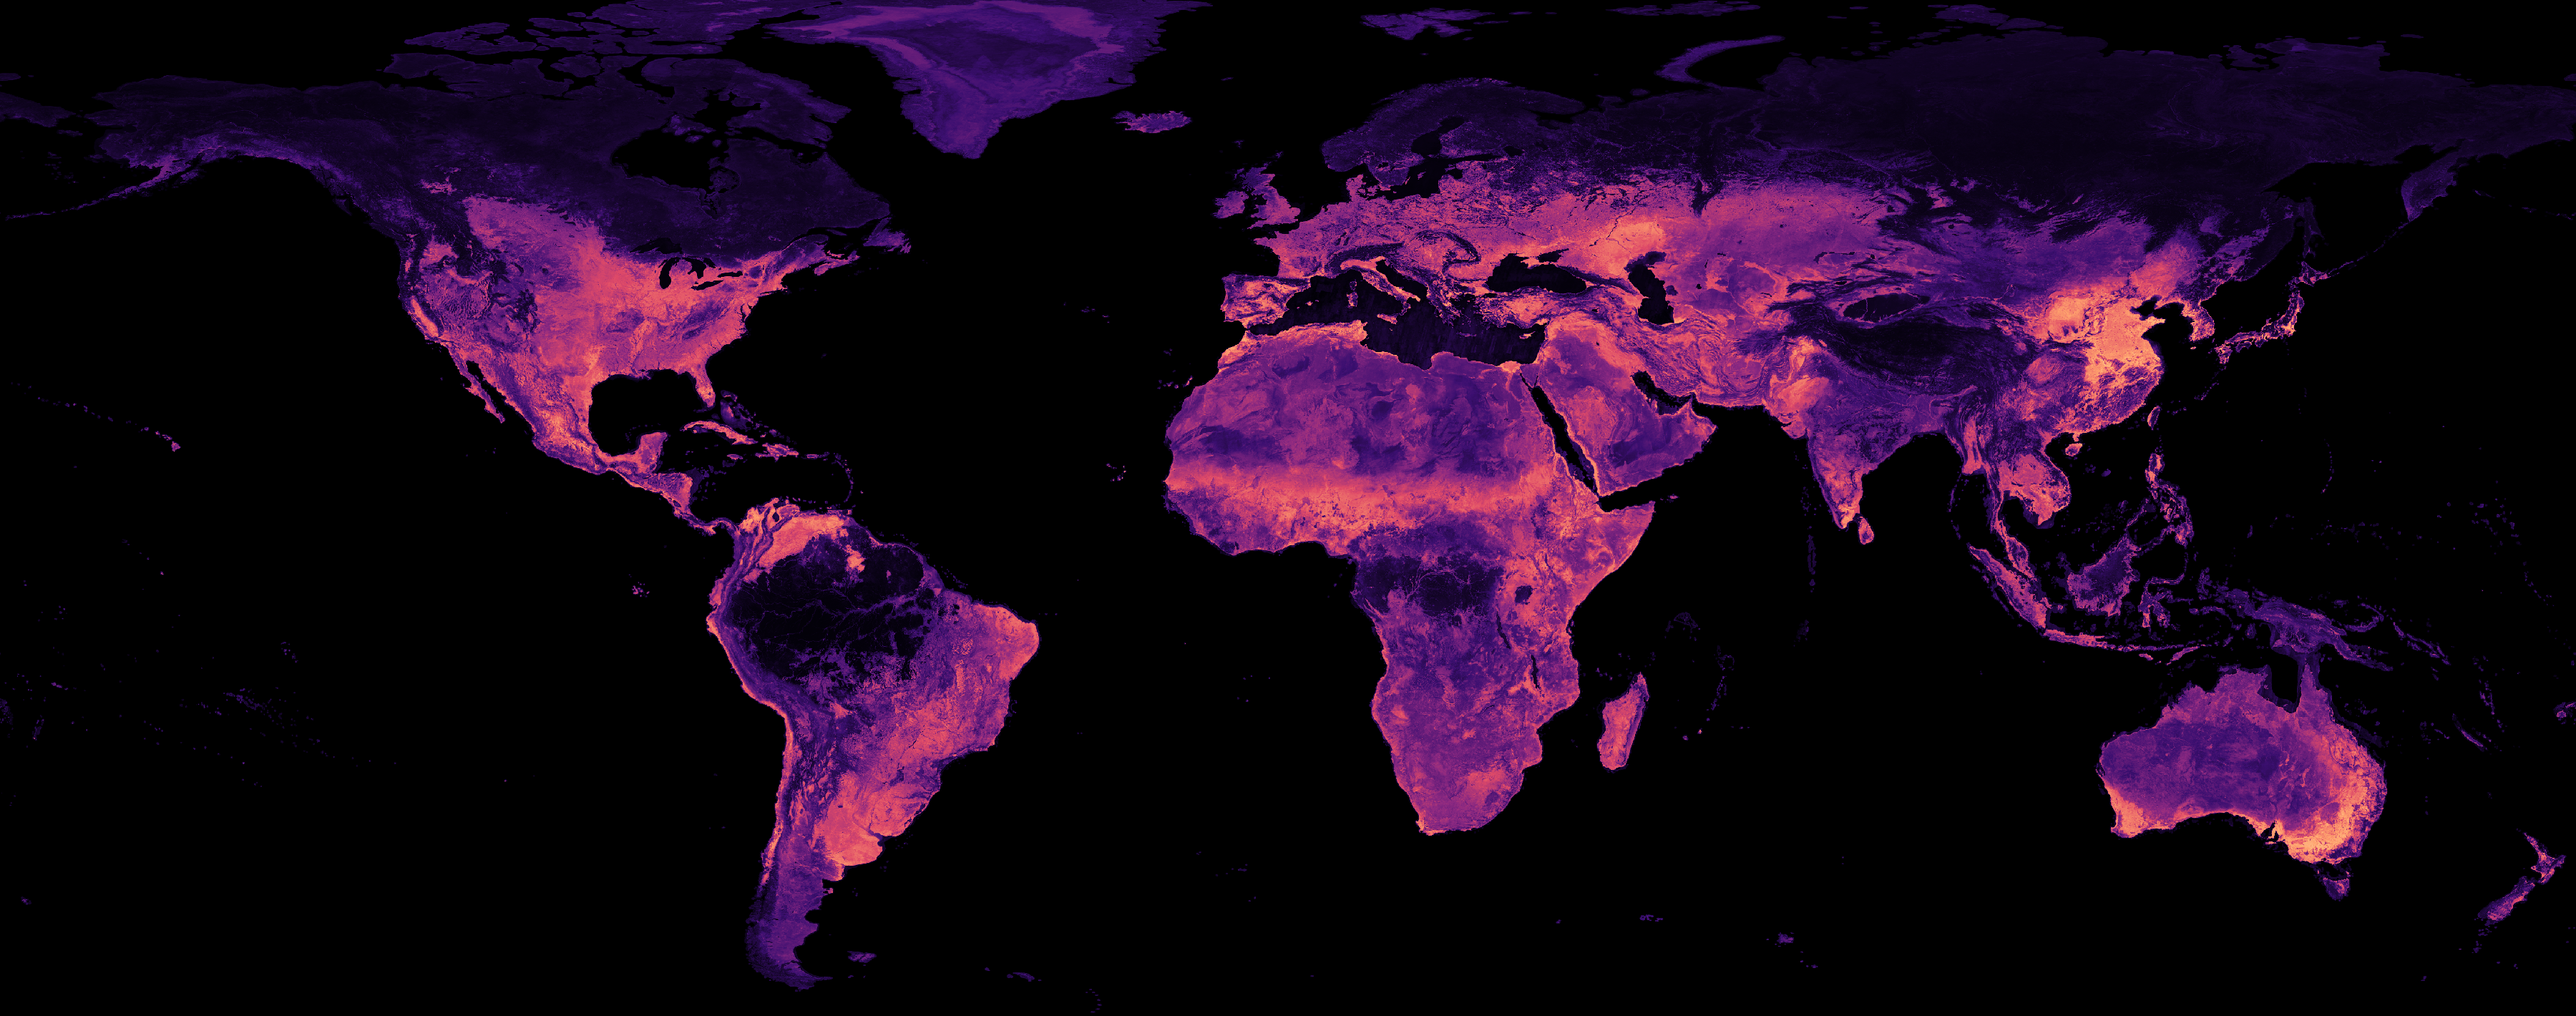
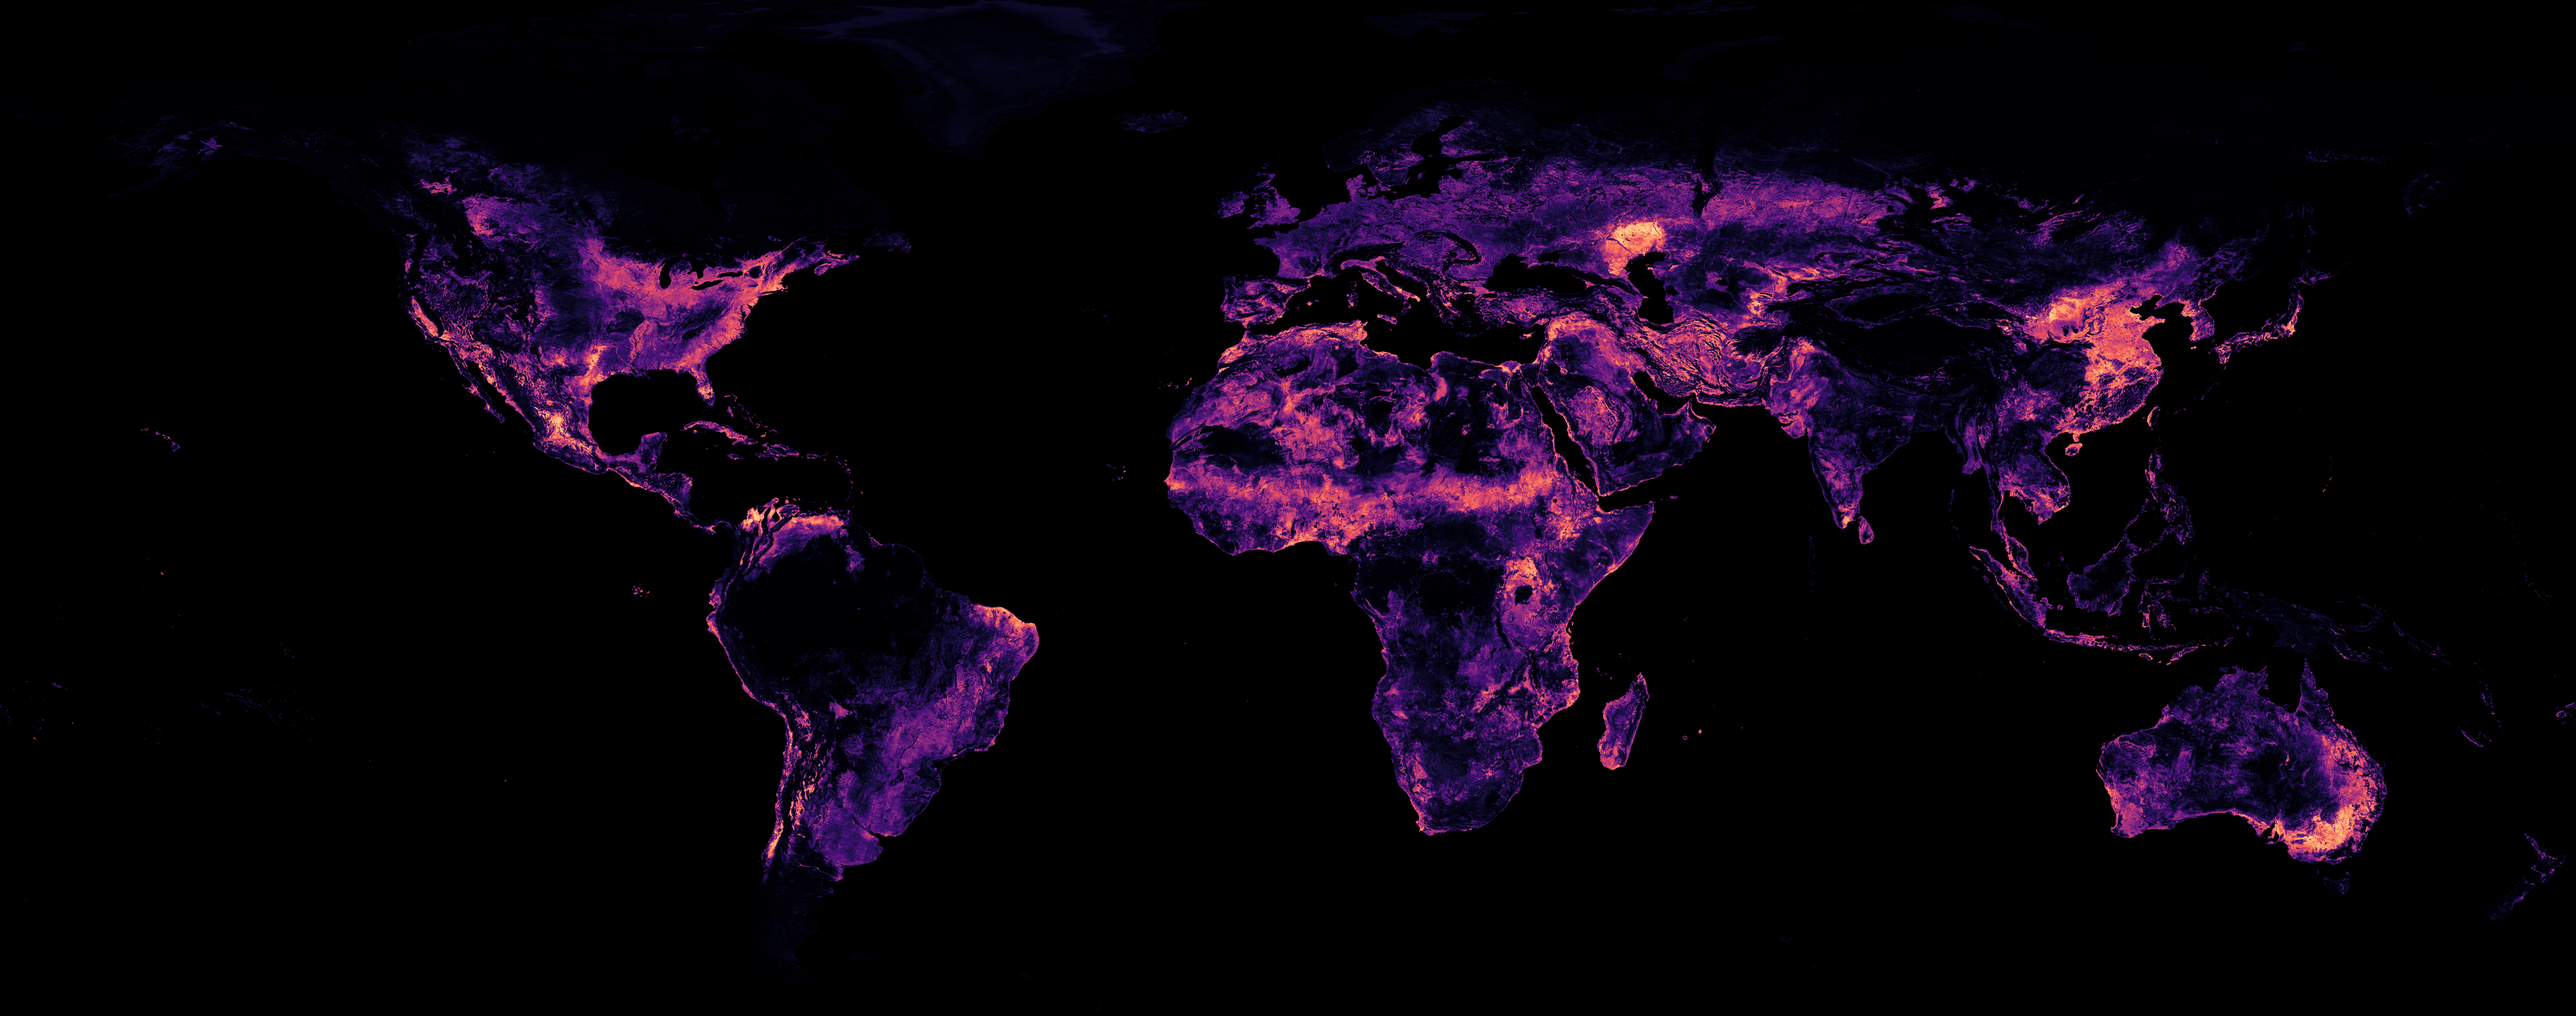
Final v1.0 dataset: preview map, counts, get_dataset metadata refresh
- README map regenerated from the final release (ensemble, land mask v2):
  mean score per 0.1 deg cell, linear scale.
- Final counts (28,533 files, 851 GB) in README, dataset and methods docs;
  existing solar scores high (measured); release-model validation figures
  in the model card.
- get_dataset: a local dataset copy is read in place; a remote one is cached
  per source, and --refresh-index re-downloads the tile index and the
  percentile tables together (previously the tables were never refreshed).

diff --git a/scripts/get_dataset.py b/scripts/get_dataset.py
@@ -1,5 +1,5 @@
 """Get part of the released global dataset (solar_suitability v1.0, AEF 2025): a country or any area, without
-downloading the whole ~850 GB archive.
+downloading the whole 851 GB archive.
 
     python scripts/get_dataset.py --country Kenya                     # raw scores, clipped to the country
     python scripts/get_dataset.py --country KEN --percentile          # + within-country percentile view
@@ -50,26 +50,30 @@ def gdal_path(root, rel):
     return ("/vsicurl/" + root.rstrip("/") + "/" + rel) if is_url(root) else os.path.join(root, rel)
 
 
+def metadata(root, rel, refresh=False):
+    """Local path of a dataset metadata file (index, lookup tables). A local root is read in place; a remote one is
+    cached per root, and --refresh-index re-downloads all cached files together (after a dataset update)."""
+    from solarsiting.aef import cache_dir
+    if not is_url(root):
+        return os.path.join(root, rel)
+    key = "".join(ch if ch.isalnum() else "_" for ch in root)[-80:]
+    p = os.path.join(cache_dir(), f"dataset_{key}", rel)
+    if refresh or not os.path.exists(p):
+        print(f"downloading {rel} (once) ...", flush=True)
+        fetch_to(root, rel, p)
+    return p
+
+
 def load_index(root, refresh=False):
     import geopandas as gpd
-    from solarsiting.aef import cache_dir
-    key = "".join(ch if ch.isalnum() else "_" for ch in root)[-80:]
-    p = os.path.join(cache_dir(), f"dataset_index_{key}.parquet")
-    if refresh or not os.path.exists(p):
-        print("downloading the dataset tile index (once) ...", flush=True)
-        fetch_to(root, "index/tiles.parquet", p)
-    return gpd.read_parquet(p)
+    return gpd.read_parquet(metadata(root, "index/tiles.parquet", refresh))
 
 
-def lut(root, iso3=None):
+def lut(root, iso3=None, refresh=False):
     """code (0-250) -> percentile, from the dataset's lookup tables (within-country if iso3 has a table)."""
     import pandas as pd
-    from solarsiting.aef import cache_dir
     name = "percentiles_by_country.csv" if iso3 else "percentiles_global.csv"
-    p = os.path.join(cache_dir(), "dataset_" + name)
-    if not os.path.exists(p):
-        fetch_to(root, f"lookup/{name}", p)
-    d = pd.read_csv(p)
+    d = pd.read_csv(metadata(root, f"lookup/{name}", refresh))
     if iso3:
         d = d[d.iso3 == iso3]
         if d.empty:
@@ -122,7 +126,8 @@ def main():
     ap.add_argument("--out", help="output folder (default: outputs/dataset_<region>)")
     ap.add_argument("--root", default=os.environ.get("SOLARSITING_DATASET", DEFAULT_ROOT),
                     help="dataset root: the CEDA URL (default), a mirror URL, or a local folder")
-    ap.add_argument("--refresh-index", action="store_true")
+    ap.add_argument("--refresh-index", action="store_true",
+                    help="re-download the cached tile index and percentile tables (after a dataset update)")
     a = ap.parse_args()
     if "PLACEHOLDER" in a.root:
         sys.exit("The dataset's CEDA link is not public yet; it will be set here and in the README at release.\n"
@@ -168,9 +173,10 @@ def main():
               f" | {(time.time() - t0) / 60:.1f} min")
     if not files:
         sys.exit("no released pixels inside this region (all sea, or outside the land mask)")
-    table, kind = (lut(a.root, iso3) if (a.percentile and iso3) else (lut(a.root) if a.percentile else (None, None)))
+    rf = a.refresh_index
+    table, kind = (lut(a.root, iso3, rf) if (a.percentile and iso3) else (lut(a.root, refresh=rf) if a.percentile else (None, None)))
     if a.percentile and table is None:
-        table, kind = lut(a.root); print(f"  no within-country table for {iso3}; using the global percentiles")
+        table, kind = lut(a.root, refresh=rf); print(f"  no within-country table for {iso3}; using the global percentiles")
     by_zone = {}
     for f in files:
         by_zone.setdefault(os.path.basename(os.path.dirname(f)), []).append(f)

diff --git a/docs/dataset.md b/docs/dataset.md
@@ -19,6 +19,7 @@ into a narrow band (paper, Appendix E). Within-country **percentiles** (below) a
 | | |
 |---|---|
 | Format | Cloud-Optimised GeoTIFF (COG), one file per AlphaEarth tile (~82 km x 82 km) |
+| Size | 28,533 files, 851 GB; 1.35 x 10^12 valid pixels (~135 million km²), 250 countries and territories, 114 UTM zones |
 | Grid | native UTM (EPSG:326zz / 327zz), 10 m, north-up |
 | Band | 1 band, `suitability`, **uint8** |
 | Encoding | value = round(P x 250); **P = value x 0.004** (scale 0.004, offset 0, stored in each file); **255 = no data** |
@@ -47,7 +48,7 @@ solar_suitability_v1.0/
              global_<zone>.vrt (+ _pct)     all tiles of a UTM zone, with global percentiles
   stac/      catalog.json + collection + one item per tile (STAC 1.0)
   model/     solar_suitability_model_v1.0/  the model that produced the map (see model_card.md)
-  docs/      QA_REPORT.md  inventory.md  quicklook_tiles.png
+  docs/      QA_REPORT.md  inventory.md  quicklook_tiles.png  preview_global_suitability.png
 ```
 
 File names carry the AlphaEarth tile id, so every file traces to its source embedding tile. There are no
@@ -66,7 +67,7 @@ too few samples for a stable table (73 small territories) use the global table (
 - **Part of it:** `python scripts/get_dataset.py --country <name|ISO3> [--percentile]` (or `--bbox`,
   `--region-file`; `--whole-tiles` for unclipped files). Reads only what it needs over HTTPS.
 - **A country's files directly:** `lookup/<ISO3>.txt` lists them; prepend the archive URL and fetch with `wget -i`.
-- **Everything:** the archive is ~850 GB; mirror it with the tools CEDA documents.
+- **Everything:** the archive is 851 GB; mirror it with the tools CEDA documents.
 - **Open in GIS:** any `.tif` or `mosaics/*.vrt` opens in QGIS/ArcGIS; in Python, `rasterio.open(path)`; the
   scale is in the file, so `read(1, masked=True) * 0.004` gives P(solar).
 
@@ -84,7 +85,8 @@ too few samples for a stable table (73 small territories) use the global table (
   under-scored even if suitable. Read alongside resource, grid and policy information.
 - Pixel scores: does not test whether enough contiguous land exists for a plant of a given size; discrimination is
   weaker for the largest (>100 MW) farms (paper, Appendix F).
-- One embedding year (2025): land that already hosts solar in 2025 scores high (it looks like solar land).
+- One embedding year (2025): land that already hosts solar in 2025 scores high (it looks like solar land; sites
+  around Athens built 2017-2022 sit at a median 98th percentile of the area's land). Mask known installations to see only new land.
 - National score levels differ (weak-country effect, Appendix E): compare countries on percentiles.
 - **Border tiles in the archive's country mosaics:** `mosaics/<ISO3>_<zone>.vrt` include whole tiles, so pixels of a
   neighbouring country inside a border tile also appear (and, in `_pct.vrt`, get this country's percentiles).

diff --git a/docs/model_card.md b/docs/model_card.md
@@ -33,6 +33,11 @@
 | Leak-proof temporal (imagery ≤ 2021, 2024 installs) | mean ROC-AUC 0.90 |
 | vs published MCDA (16 configurations, 13 countries) | +0.06 to +0.30 ROC-AUC in every country |
 
+The released (all-data) model itself: ROC-AUC 0.922 on validation sites outside every chip it was trained on
+(13 countries, n-weighted; split model 0.907), 0.894 on independent TZ-SAM sites (0.891), leave-one-country-out mean
+0.81 (0.81). On bundled inventory sites inside its training chips it scores higher, which measures fit, not
+forward skill ([`docs/reproduce.md`](reproduce.md#forward-validation-predictpy--validatepy)).
+
 Released (all-data) ensemble vs the all-data random forest alone (paired bootstrap): TZ-SAM +0.010 [+0.009, +0.011],
 leak-free country +0.009 [+0.007, +0.010], leave-one-country-out +0.012 [+0.007, +0.017]; temporal −0.002 [−0.004, 0.000].
 
@@ -48,6 +53,7 @@ resource, grid, environmental and social layers; studying siting patterns across
 - Skill varies by country; weaker for the largest (> 100 MW) farms; transfer to countries absent from training is
   weaker (leave-one-country-out).
 - Pixel-level: does not check for contiguous area, ownership, grid capacity, permitting or protected status.
+- Land already covered by solar scores high; scores rank land and are not calibrated probabilities of development.
 - Inherits AlphaEarth's characteristics (effective detail can be coarser than 10 m in places).
 - **Not for permitting or investment decisions without local data and assessment.**
 

diff --git a/docs/methods.md b/docs/methods.md
@@ -45,7 +45,7 @@ best on every held-out test. The released model is the same recipe refit on **al
    `scripts/predict.py` runs the identical computation on any region.
 2. **Land mask:** AlphaEarth also covers near-shore sea. Pixels more than 500 m from land were set to no data, with
    land = OpenStreetMap land polygons ∪ ESA WorldCover 2021 (all classes except permanent water). Kept pixels are
-   byte-identical to the model output; tiles left empty (open sea) were dropped.
+   byte-identical to the model output; tiles left empty (open sea, 2,506) were dropped, leaving 28,533 files.
 3. **Index and catalogue:** a tile index (GeoParquet / GeoPackage / CSV) with footprints, checksums and Natural
    Earth country assignment; per-country file lists and virtual mosaics; a STAC catalogue.
 4. **Percentiles:** global and within-country lookup tables from ~49 M pixels sampled uniformly over released land,

diff --git a/README.md b/README.md
@@ -12,7 +12,7 @@ resembles land that later became a solar farm, two years before construction.
 
 ![Global solar suitability](figures/global_suitability_map.png)
 
-*Global suitability (AEF 2025); brighter = more suitable. Preview of the 10 m dataset.*
+*Mean suitability score per 0.1° cell (AEF 2025, linear scale); brighter = more suitable. Preview of the 10 m dataset.*
 
 **What you can do with this repository**
 
@@ -126,7 +126,7 @@ The code measures both of its threading strategies on first use and keeps the fa
 
 ## Use the released dataset
 
-The global map for **AEF 2025** (solar_suitability v1.0, ~850 GB, 28,000+ tiles, native UTM 10 m) is archived at CEDA
+The global map for **AEF 2025** (solar_suitability v1.0, 851 GB, 28,533 tiles, native UTM 10 m) is archived at CEDA
 (**DOI coming soon**). You do not need to download all of it:
 
 ```bash

diff --git a/CHANGELOG.md b/CHANGELOG.md
@@ -15,6 +15,8 @@ Public release accompanying the camera-ready paper and the solar_suitability v1.
 - Bundled validation sites carry a `paper_split` column (train / test / unseen chips), and `validate.py` reports
   results by it: the released all-data model has seen these sites, unlike the paper's train-split evaluation model.
 - Long runs survive dropped connections: remote reads retry on a fresh connection with back-off.
+- `get_dataset.py` reads a local dataset copy in place and caches a remote one per source; `--refresh-index`
+  re-downloads the tile index and percentile tables together.
 - Removed: the Earth Engine route (`run_country.py`), the size-capped review random forest and its scripts.
 
 ## 0.1 (2026-08)
